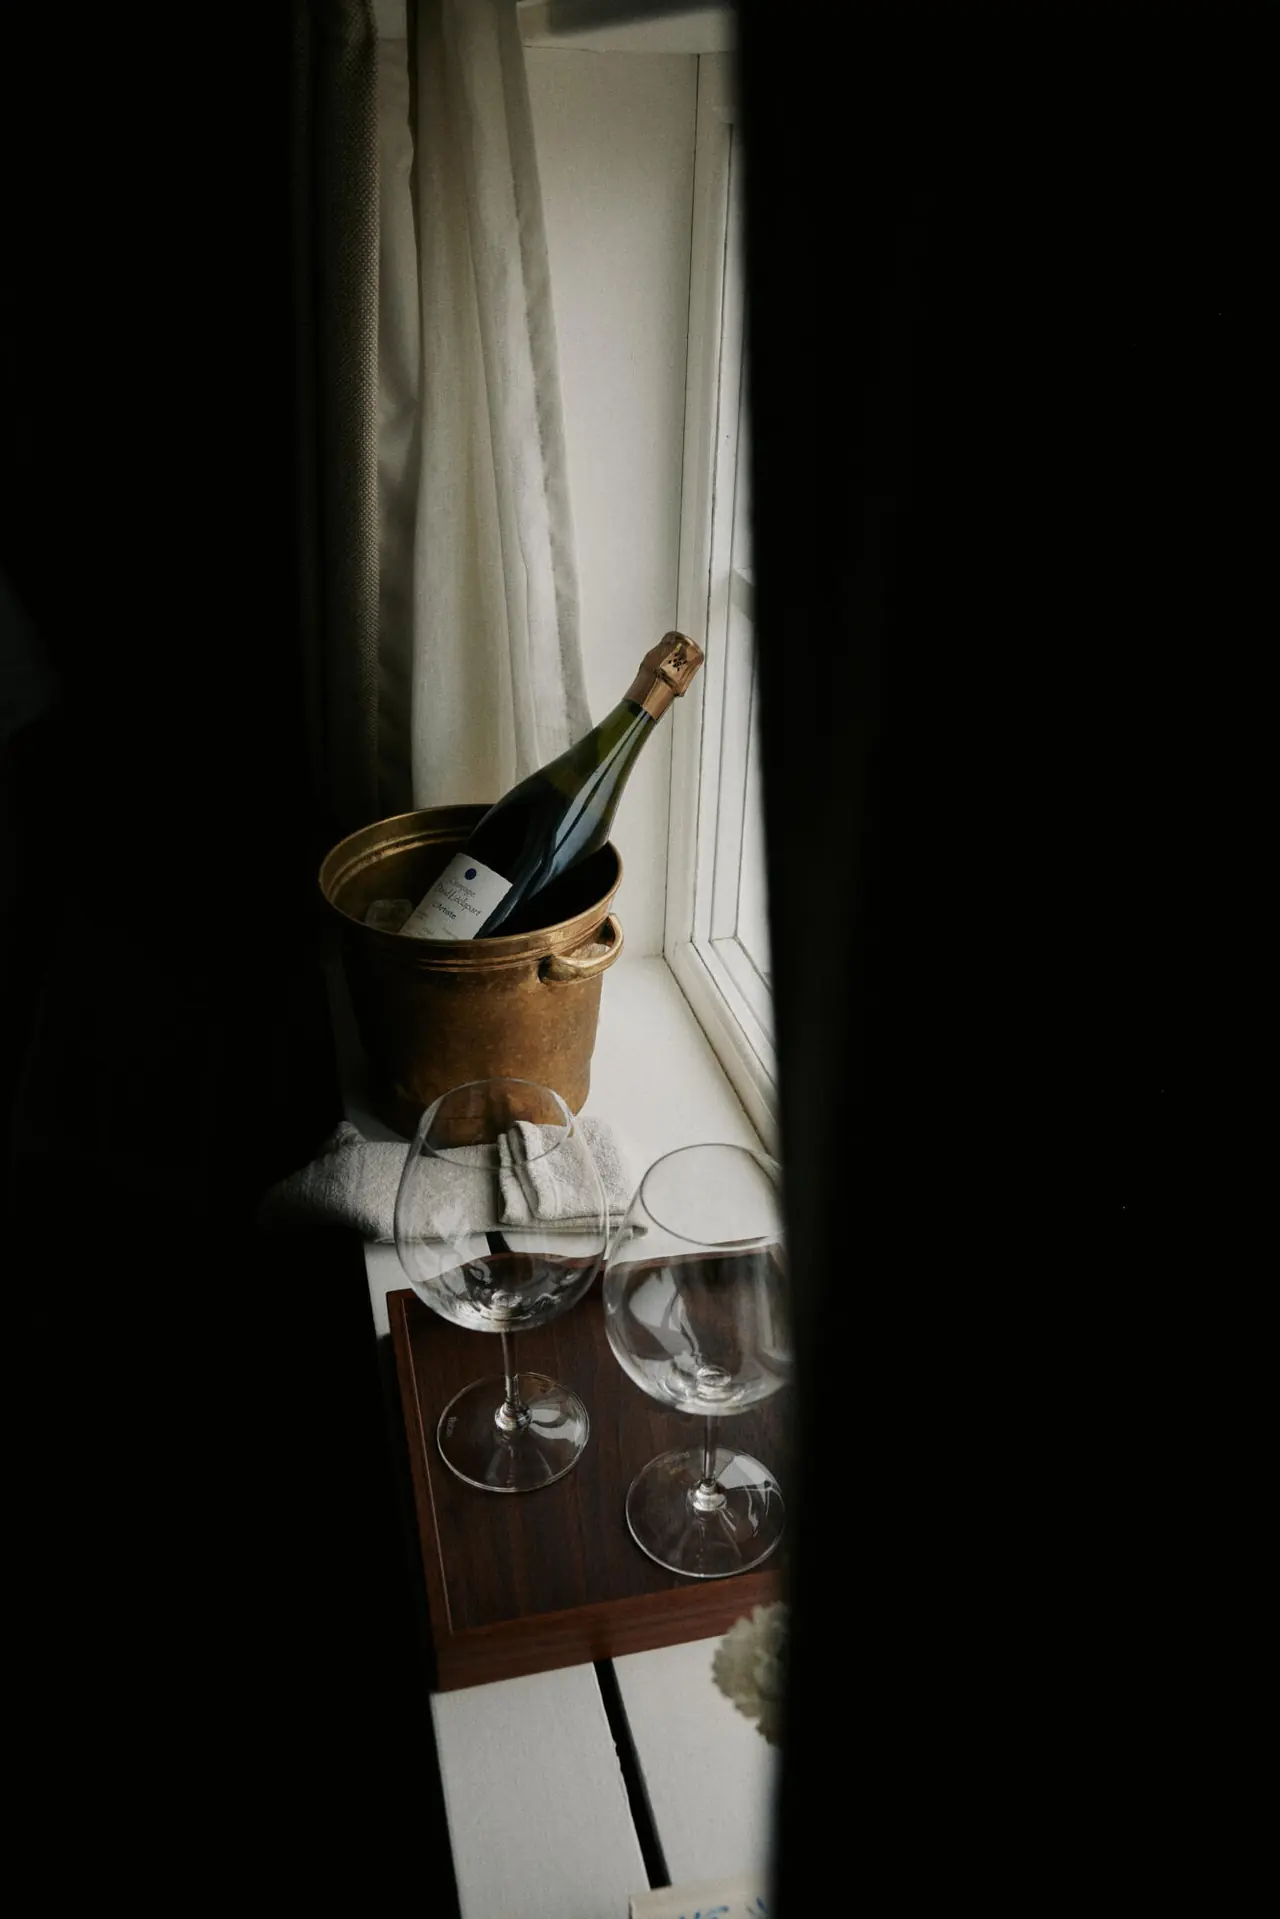
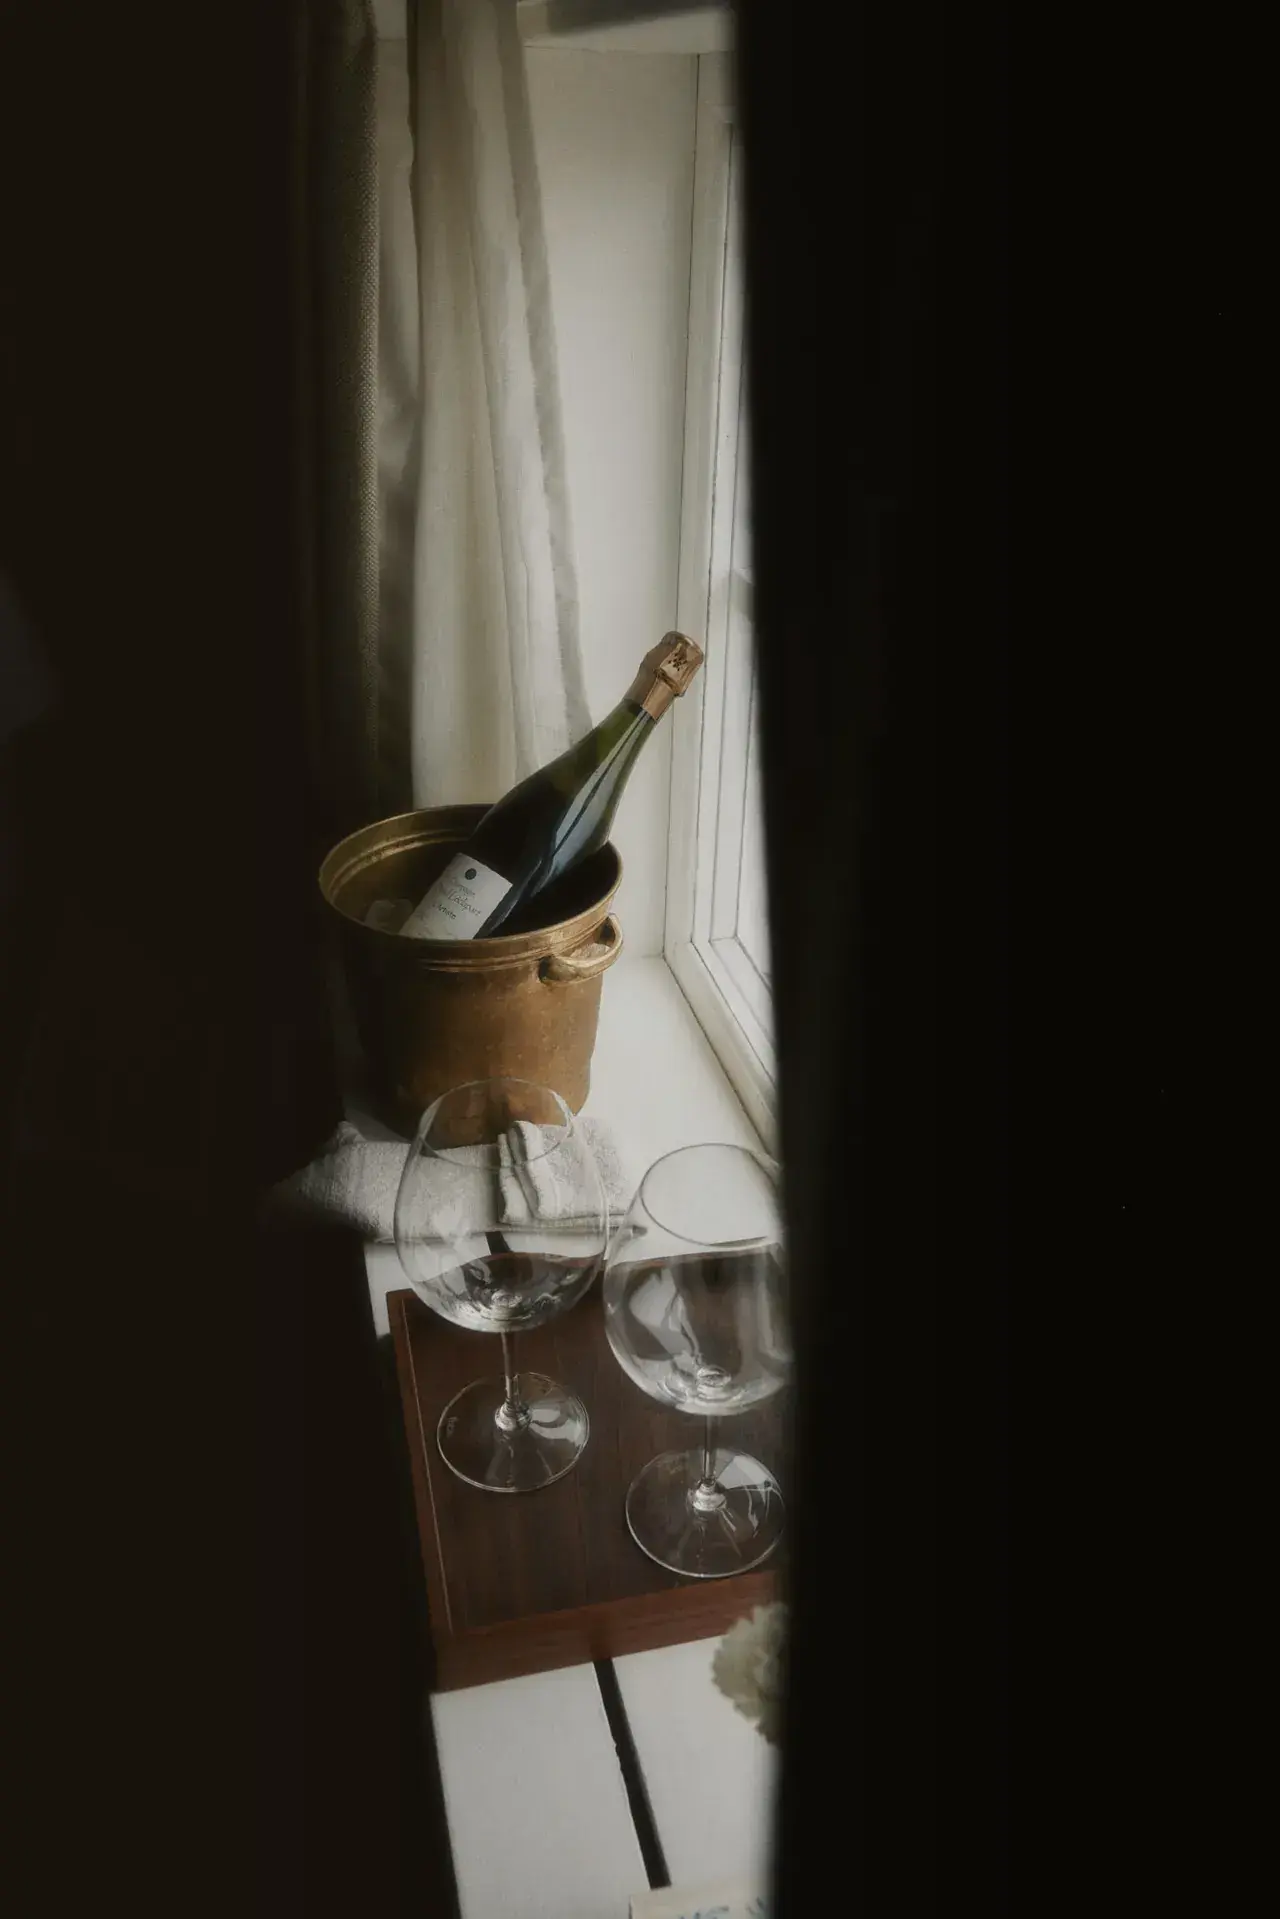
Champagnebilden: mjukare och varmare mörker så att den lirar med våningssängen
Claude-Session: https://claude.ai/code/session_01PvJLN3KGU2VwY8XGgYZP88

diff --git a/CLAUDE.md b/CLAUDE.md
@@ -45,7 +45,7 @@ The home pages copy the structure of the WordPress site: one long page with a sl
 - **Menu wording** — the menu items match the section headings: "Till bords" / "At the table" (not "Mat & Dryck"), "Hitta hem i det vilda" / "Your home in the wild" (her choice).
 - **Language switch** — chosen by her: `.sprakval` ("English" / "Svenska", same size as BOKA) next to BOKA on every new-look page, linking to the counterpart page, plus `.sprak-under` ("Svenska · English", current language underlined) under the title on the two home pages. No language item in the menu any more.
 - **Softened photos** — so the photos sit together with the dreamy ones (martini, winter lodge), six home-page photos were given a very light softening in place (gentle glow, slightly muted colour and contrast, a touch lifted black): `hero-vinkallare`, `hero-majrova`, `hero-ripa`, `hero-koksbord`, `karta`, `hero-dukning`. Her choice: "pyttelite", no grain. The black-and-white team photo `laget` got a slightly stronger version (more glow, lifted blacks, lower contrast) at her request. The untreated versions are in git history (before the commit "Mjukare bilder"). Give new photos the same light touch if they feel harsh next to the others.
-- **Two photos side by side** — `<div class="bild dubbel">` holds two tall photos shown side by side on computer like a magazine spread; on phones only the first shows (the second has `bara-dator`). Used for the bunk bed and the champagne in the window before Vår historia (her choice, so the computer doesn't show only sheets).
+- **Two photos side by side** — `<div class="bild dubbel">` holds two tall photos shown side by side on computer like a magazine spread; on phones only the first shows (the second has `bara-dator`). Used for the bunk bed and the champagne in the window before Vår historia (her choice, so the computer doesn't show only sheets). The champagne photo was softened and its black left side lifted to a warm dark brown so it matches the bunk-bed photo (her request; original in git history).
 - **Photos between sections** — `<div class="bild">` with the same `--pos-*` and `data-ljus-*` attributes.
 - **LÄS MER** — text blocks with the classes `las-mer bara-mobil` get a LÄS MER / VISA MINDRE button on phones only (800px and narrower). The text breaks at the paragraph closest to half. Add `data-las-mer-efter="2"` to force the break after paragraph 2.
 - The texts are copied word for word from hallfjallet.se. Do not edit them unless she asks.
